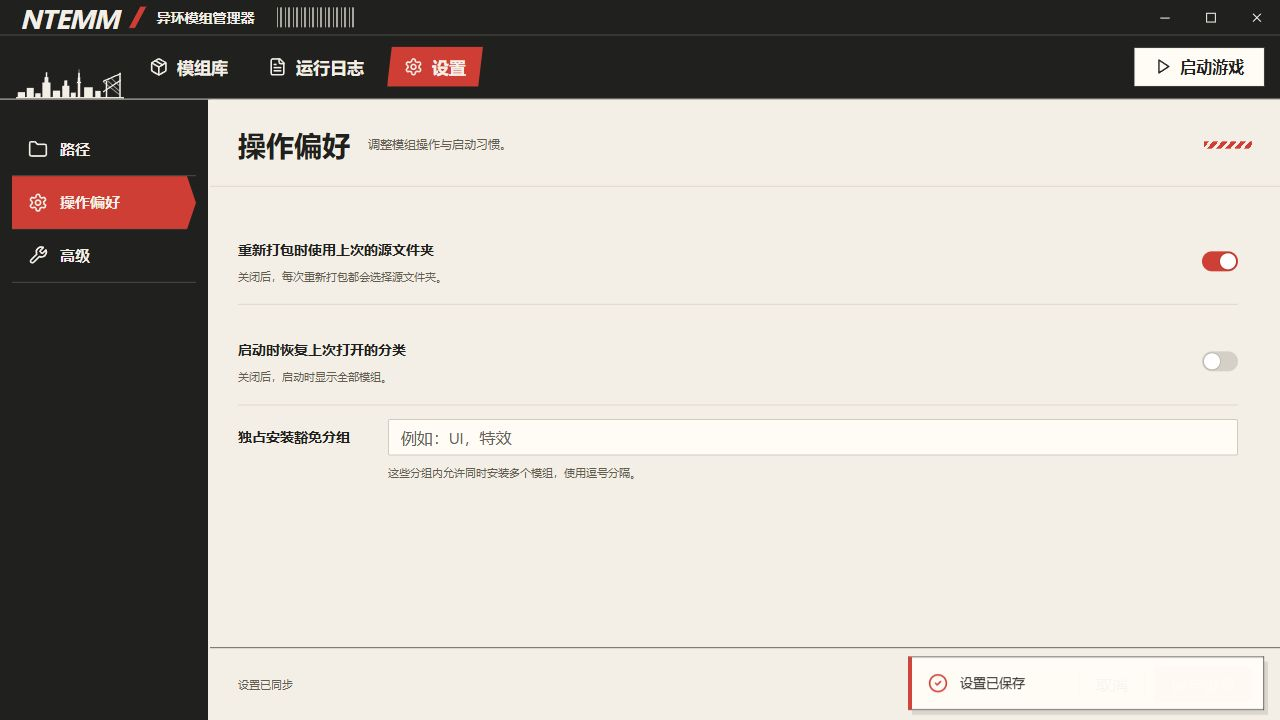
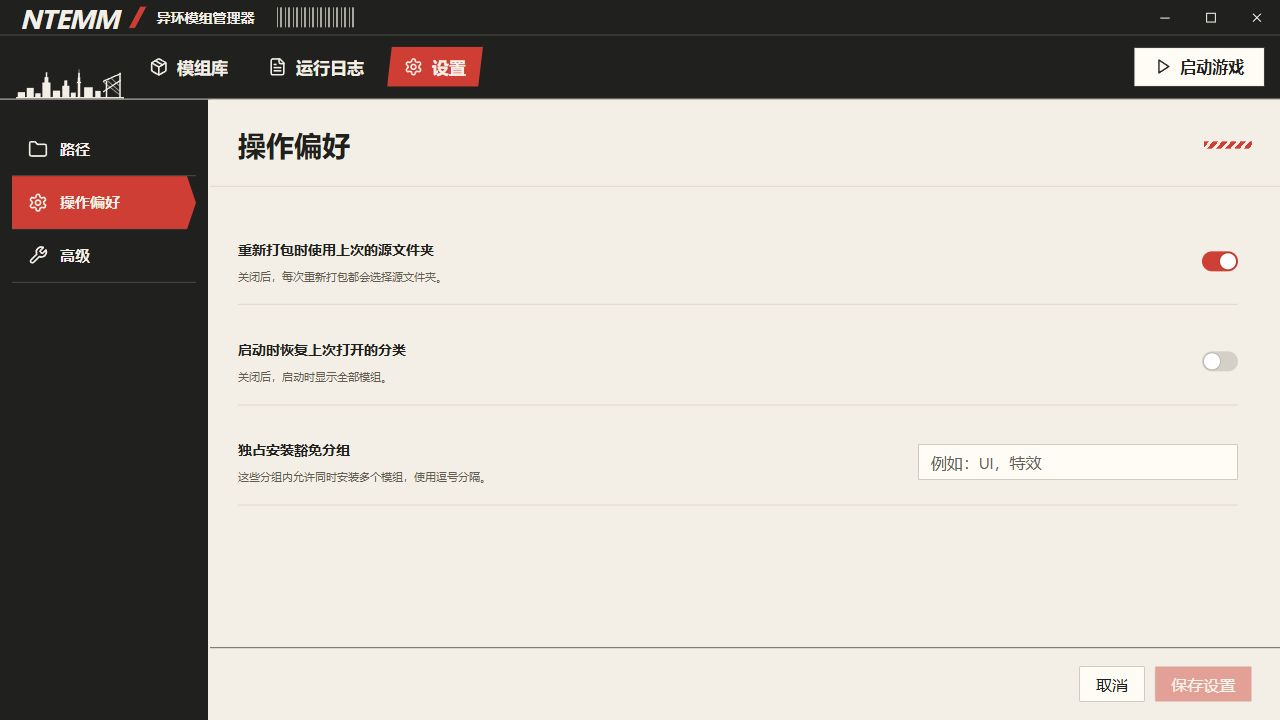
style: 调整豁免分组说明位置并缩短输入框

diff --git a/app/src/renderer/src/components/settings-view.tsx b/app/src/renderer/src/components/settings-view.tsx
@@ -192,18 +192,23 @@ export default function SettingsView({ config, onSaved, onDirtyChange, onCancel 
                 '启动时恢复上次打开的分类',
                 '关闭后，启动时显示全部模组。'
               )}
-              <div className="settings-field">
-                <label htmlFor="exempt-groups">独占安装豁免分组</label>
-                <div>
-                  <Input
-                    id="exempt-groups"
-                    value={draft.groupsText}
-                    disabled={saving}
-                    onChange={(e) => update('groupsText', e.target.value)}
-                    placeholder="例如：UI，特效"
-                  />
-                  <p>这些分组内允许同时安装多个模组，使用逗号分隔。</p>
-                </div>
+              <div className="settings-toggle settings-exempt-groups">
+                <span>
+                  <strong>
+                    <label htmlFor="exempt-groups">独占安装豁免分组</label>
+                  </strong>
+                  <small id="exempt-groups-help">
+                    这些分组内允许同时安装多个模组，使用逗号分隔。
+                  </small>
+                </span>
+                <Input
+                  id="exempt-groups"
+                  aria-describedby="exempt-groups-help"
+                  value={draft.groupsText}
+                  disabled={saving}
+                  onChange={(e) => update('groupsText', e.target.value)}
+                  placeholder="例如：UI，特效"
+                />
               </div>
             </>
           )}

diff --git a/app/src/renderer/src/index.css b/app/src/renderer/src/index.css
@@ -1056,6 +1056,14 @@ select {
   font-size: 11px;
   color: #655c50;
 }
+.settings-exempt-groups {
+  flex-wrap: wrap;
+}
+.settings-exempt-groups > input {
+  width: 320px;
+  max-width: 100%;
+  margin-left: auto;
+}
 .settings-config-file {
   display: flex;
   gap: 15px;

diff --git a/docs/design/ui-redesign-2026-11-16/implementation/README.md b/docs/design/ui-redesign-2026-11-16/implementation/README.md
@@ -78,6 +78,8 @@
 
 设置页底部移除左侧状态文字，仅保留右侧「取消」和「保存设置」按钮。
 
+三个设置页面均移除标题右侧的说明文字。操作偏好中的豁免分组说明移至小标题下方，输入框靠右并缩短为 320 像素。内置浏览器确认说明与小标题左侧对齐，940 像素窗口宽度下输入框未超出设置行，无横向溢出。
+
 内置浏览器验证鼠标点击、点击选项文字、空格键及回车键切换通过，键盘焦点轮廓可见。保存后离开并重新进入设置，内存 mock 中的状态正确恢复；测试状态已还原。类型检查通过，控制台未发现错误或警告。
 
 ![操作偏好开关](./settings-preferences.jpg)
